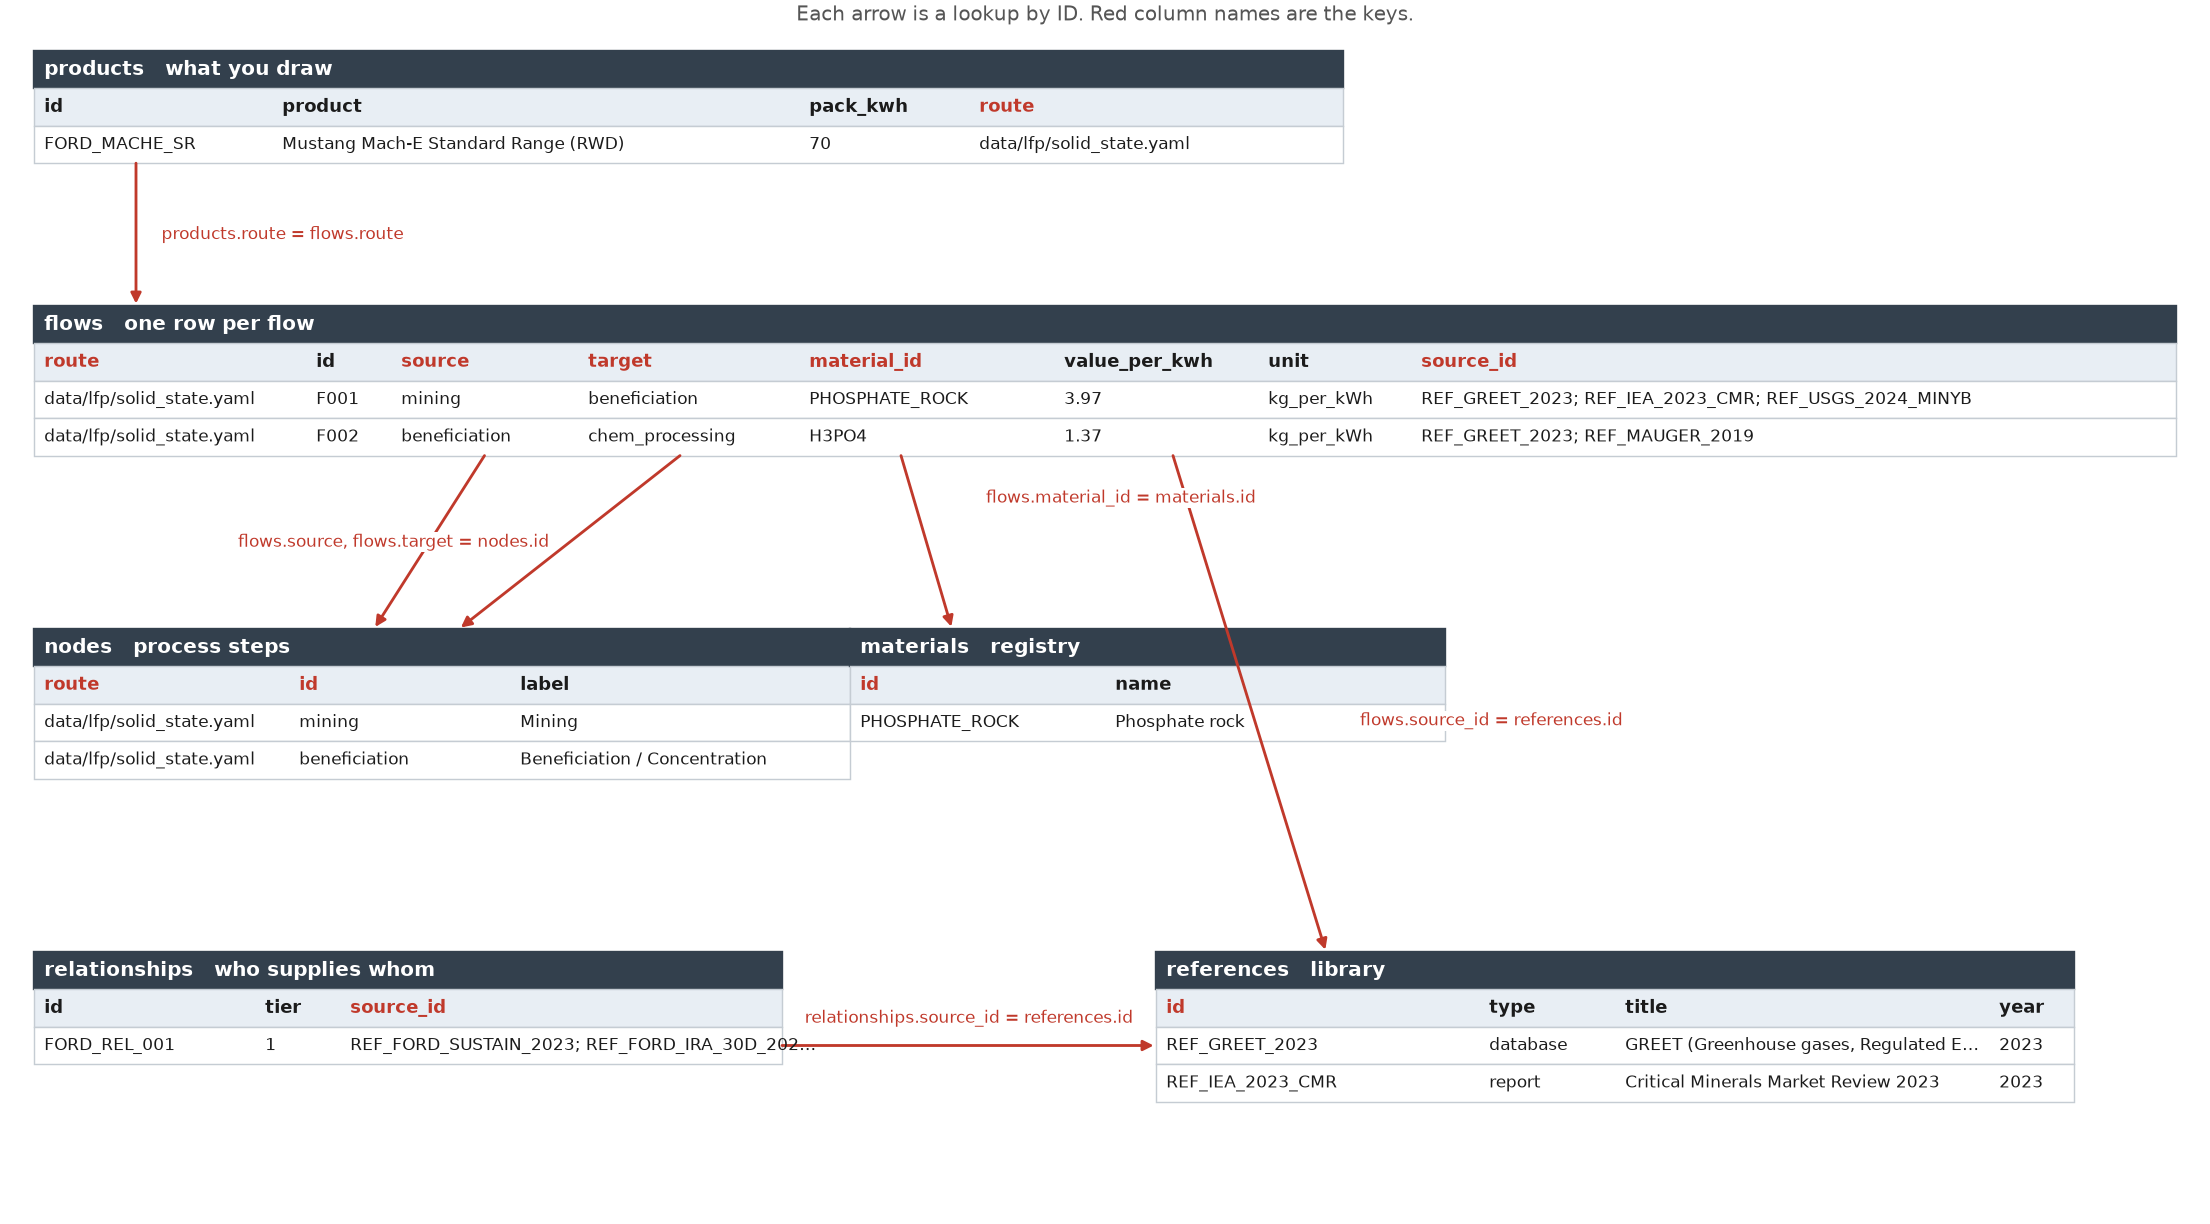
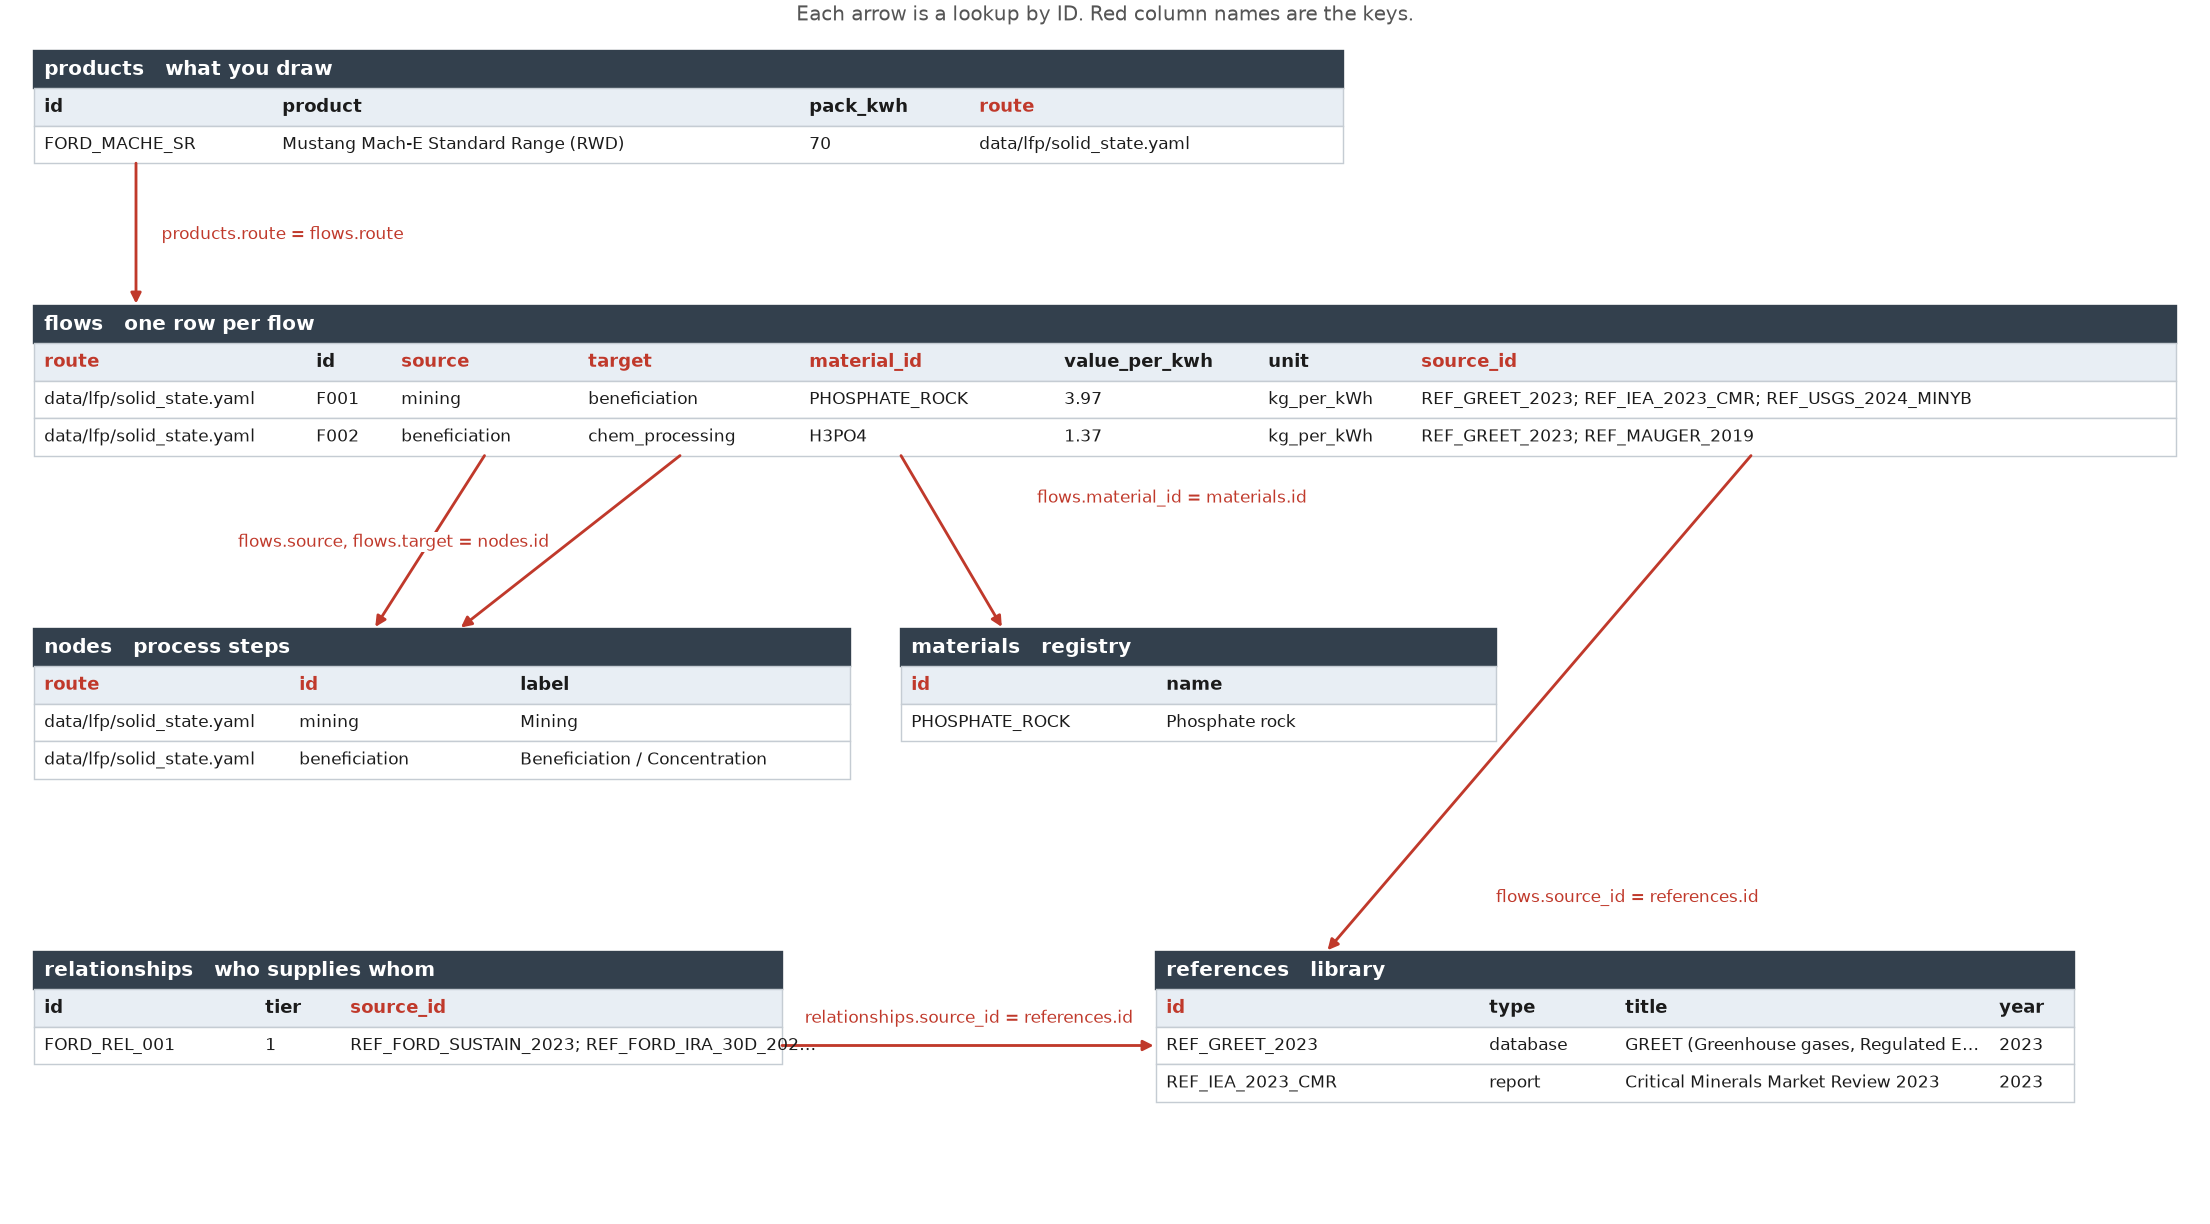
Waterfall defaults to paper like Sankey; redraw structure image; trim Checks bullet

diff --git a/docs/make_structure.py b/docs/make_structure.py
@@ -79,7 +79,7 @@ def structure(out_stem: Path):
              for i in dict.fromkeys([f1["source"], f1["target"]]) if i in nodes],
             [15, 13, 20], keys={"route", "id"})
     m = mats[f1["material_id"]]
-    Mt = Box(ax, 50, 35, "materials   registry", ["id", "name"],
+    Mt = Box(ax, 53, 35, "materials   registry", ["id", "name"],
              [[m["id"], m.get("name")]], [15, 20], keys={"id"})
     ids = [s.strip() for s in f1["source_id"].split(";")][:2]
     R = Box(ax, 68, 16, "references   library", ["id", "type", "title", "year"],
@@ -104,8 +104,8 @@ def structure(out_stem: Path):
     label(14, (out + N.top) / 2, "flows.source, flows.target = nodes.id")
     arrow((F.colx["material_id"], out), (Mt.colx["id"], Mt.top))
     label(Mt.colx["id"] + 2, (out + Mt.top) / 2 + 2.6, "flows.material_id = materials.id")
-    arrow((F.colx["source_id"] - 20, out), (R.colx["id"] + 4, R.top))
-    label(R.colx["id"] + 6, (out + R.top) / 2 - 1, "flows.source_id = references.id")
+    arrow((F.colx["source_id"] + 14, out), (R.colx["id"] + 4, R.top))
+    label(R.colx["id"] + 14, R.top + 3.2, "flows.source_id = references.id")
     arrow((Q.x + Q.w, Q.top - RH * 2.5), (R.x, R.top - RH * 2.5))
     label((Q.x + Q.w + R.x) / 2, Q.top - RH * 2.5 + 1.6, "relationships.source_id = references.id",
           ha="center")

diff --git a/figure_tools/waterfall.py b/figure_tools/waterfall.py
@@ -36,7 +36,7 @@ MM_PER_IN = 25.4
 
 
 class Waterfall:
-    def __init__(self, profile: str = "deck", height_mm: float | None = None,
+    def __init__(self, profile: str = "paper", height_mm: float | None = None,
                  width_mm: float | None = None, zoom: bool = False):
         """zoom=True crops the value axis to the bars instead of including zero.
 
@@ -66,7 +66,7 @@ class Waterfall:
 
     # ---------------- declaration ----------------
     @classmethod
-    def from_table(cls, table, sheet=None, profile: str = "deck", title: str | None = None,
+    def from_table(cls, table, sheet=None, profile: str = "paper", title: str | None = None,
                    ylabel: str | None = None, **kw) -> "Waterfall":
         """Build a waterfall from a table.
 

diff --git a/README.md b/README.md
@@ -51,7 +51,7 @@ figure.
 ```python
 from figure_tools import Waterfall
 
-w = Waterfall.from_table("examples/tables/waterfall.csv", profile="paper",
+w = Waterfall.from_table("examples/tables/waterfall.csv",
                          title="Materials explain most of the 2024 cost increase")
 w.save("out/bridge")                      # out/bridge.pdf, .svg, .png
 ```
@@ -225,8 +225,8 @@ s.save_html("out/grant.html")
   smallest step stays readable.
 - matplotlib reads `$...$` as math and italicizes the text in between. A bare
   `$` in a title or label raises an error. Write `\$` instead.
-- PDFs embed TrueType text (not Type 3) and SVGs keep live text, so a copy
-  editor can fix a typo without redrawing. A missing glyph raises an error.
+- PDFs embed TrueType text (not Type 3) and SVGs keep live text. A missing
+  glyph raises an error.
 
 ## Limits
 
